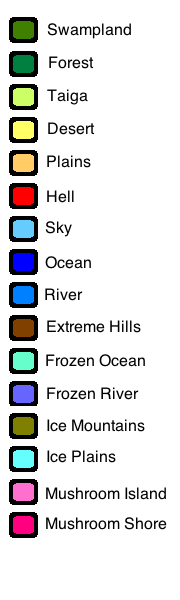
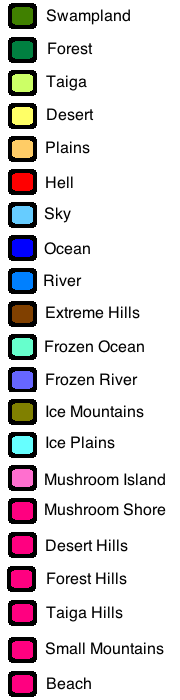
Add support for new 1.1 biomes (beach, forest hills, desert hills, taiga hills, small mountains)

Changed region(s): [[0.0278, 0.0, 0.9444, 1.0]]

diff --git a/src/main/java/org/dynmap/bukkit/NewMapChunkCache.java b/src/main/java/org/dynmap/bukkit/NewMapChunkCache.java
@@ -798,5 +798,10 @@ public class NewMapChunkCache implements MapChunkCache {
         biome_to_bmap[Biome.ICE_MOUNTAINS.ordinal()] = BiomeMap.ICE_MOUNTAINS;
         biome_to_bmap[Biome.MUSHROOM_ISLAND.ordinal()] = BiomeMap.MUSHROOM_ISLAND;
         biome_to_bmap[Biome.MUSHROOM_SHORE.ordinal()] = BiomeMap.MUSHROOM_SHORE;
+        biome_to_bmap[Biome.BEACH.ordinal()] = BiomeMap.BEACH;
+        biome_to_bmap[Biome.DESERT_HILLS.ordinal()] = BiomeMap.DESERT_HILLS;
+        biome_to_bmap[Biome.FOREST_HILLS.ordinal()] = BiomeMap.FOREST_HILLS;
+        biome_to_bmap[Biome.TAIGA_HILLS.ordinal()] = BiomeMap.TAIGA_HILLS;
+        biome_to_bmap[Biome.SMALL_MOUNTAINS.ordinal()] = BiomeMap.SMALL_MOUNTAINS;
     }
 }

diff --git a/src/main/java/org/dynmap/common/BiomeMap.java b/src/main/java/org/dynmap/common/BiomeMap.java
@@ -23,5 +23,10 @@ public enum BiomeMap {
     ICE_PLAINS,
     ICE_MOUNTAINS,
     MUSHROOM_ISLAND,
-    MUSHROOM_SHORE
+    MUSHROOM_SHORE,
+    BEACH,
+    DESERT_HILLS,
+    FOREST_HILLS,
+    TAIGA_HILLS,
+    SMALL_MOUNTAINS
 }
